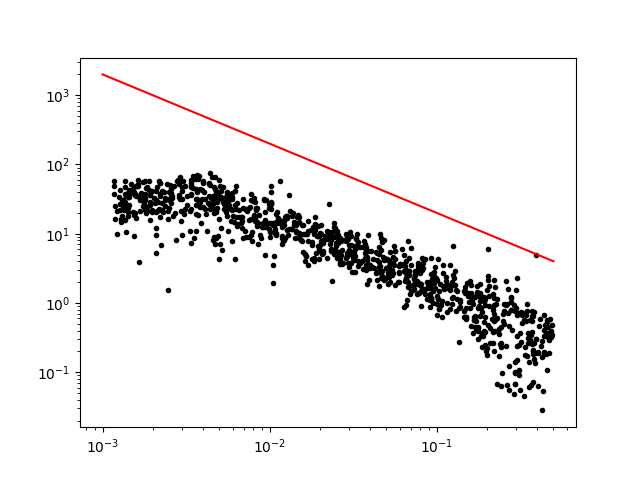
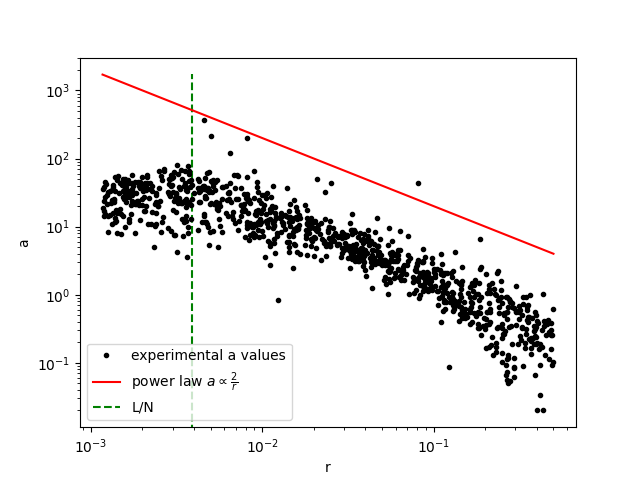
commented my code for ex2, reformatted figures

diff --git a/sheet6/code_anja/exercise2.py b/sheet6/code_anja/exercise2.py
@@ -20,49 +20,52 @@ def ex2():
     # a)
 
     grid = Density_map(L/2,N)
-    x, y = np.random.uniform(low=-grid.H + grid.h, high = grid.H - grid.h, size=2)
+    x, y = np.random.uniform(low=-grid.H + grid.h, high = grid.H - grid.h, size=2) # particle inside one cell length, aka not in a boundary cell
     X = np.array((x,y))
 
-    print(X)
+    print(f'particle at cartesian position: X = {X}')
 
     grid.add_particle(X)
 
-    rho_real = grid.rho1
+    rho_real = grid.rho1 # denisty mesh as implemented in last weeks exercise
     
 
     # b)
 
     #kx = 2*np.pi/L*np.arange(-N/2,N/2,1) # !! N must be even for this to work
-    kx = 2*np.pi/L*np.arange(0,N,1)
-    ky = np.flip(kx)
-    #k = np.vstack((kx,ky))
+    kx = 2*np.pi/L*np.arange(0,N,1) # which one is correct? both should work equally? but the symmetric one gives weird chess board patterns in force?
+    ky = np.flip(kx) # bc array and physical directions in y opposite
     #print(kx)
     
-    greens_kspace = np.zeros((len(kx),len(ky)))
+    greens_kspace = np.zeros((len(kx),len(ky))) # set up greens function at each cell position
     for i in range(len(kx)):
         for j in range(len(ky)):
             k = np.array((kx[i],ky[j]))
-            greens_kspace[j,i] = greens_func_kspace(k) 
+            greens_kspace[j,i] = greens_func_kspace(k) # x and y indices switched!!
 
     #print(greens_kspace)
-    greens_kspace_padded = np.zeros((2*N,2*N))
-    greens_kspace_padded[0:N,0:N] = greens_kspace_padded[0:N,N:2*N] = greens_kspace_padded[N:2*N,0:N] = greens_kspace_padded[N:2*N,N:2*N] = greens_kspace
+    greens_kspace_padded = np.zeros((2*N,2*N)) # zero padding to prevent from feeling force from neighbouring periodicly continued cell
+    greens_kspace_padded[0:N,0:N] = greens_kspace_padded[0:N,N:2*N] = greens_kspace_padded[N:2*N,0:N] = greens_kspace_padded[N:2*N,N:2*N] = greens_kspace # greens should satisfy periodicity in each quarter
 
-    #greens_kspace_padded = np.fft.fftshift(greens_kspace_padded)
+    #greens_kspace_padded = np.fft.fftshift(greens_kspace_padded) # necessary or not?
     rho_real_padded = np.zeros((2*N,2*N))
     rho_real_padded[0:N,0:N] = rho_real # rho lives in lower left corner
-    rho_kspace_padded = np.fft.fft2(rho_real_padded)
+    rho_kspace_padded = np.fft.fft2(rho_real_padded) # DFT of zero padded rho
     
-    phi_kspace_padded = rho_kspace_padded*greens_kspace_padded
+    phi_kspace_padded = rho_kspace_padded*greens_kspace_padded 
 
-    phi_real_padded = np.fft.ifft2(phi_kspace_padded).real
+    phi_real_padded = np.fft.ifft2(phi_kspace_padded).real # should yield right result in lower left corner for phi, discard other quarters
     #print(phi_real_padded)
-    grid.show_density_map(grid.rho1)
-    phi_real = phi_real_padded[0:N,0:N]
+
+    #grid.show_density_map(grid.rho1)
+
+    phi_real = phi_real_padded[0:N,0:N] # lower left corner
     #print(phi_real)
 
+
     # c)
-   
+
+    # calculate force in each cell   
     A = np.zeros((2,N,N))
     for i in range(1,N-1):
         # central difference in x direc
@@ -79,13 +82,15 @@ def ex2():
     A[1,-1,:] = -(phi_real[-2,:]-phi_real[-1,:])/grid.h
 
     #print(A)
-
+    # visualize A mesh x and y components
     fig0 = plt.figure()
     Z0 = plt.imshow(A[0])
     fig0.colorbar(Z0)
+    plt.title('$A_x$')
     fig1 = plt.figure()
     Z1 = plt.imshow(A[1]) 
-    fig1.colorbar(Z1)   
+    fig1.colorbar(Z1)
+    plt.title('$A_y$')   
     plt.show()
 
 
@@ -94,19 +99,19 @@ def ex2():
     rmax = L/2
     rmin = 0.3*L/N
     rrel = rmax/rmin
-
-    positions = []
-    dists = []
+    # set up 100 randomly positioned evaluation points in given region around particle from a)
+    positions = [] # stores positions
+    dists = [] # stores absolute distance from particle
     for i in range(100):
         p, q = np.random.uniform(0,1,size=2)
         dx = rmin*rrel**p*np.cos(2*np.pi*q)
         dy = rmin*rrel**p*np.sin(2*np.pi*q)
         r = np.sqrt(dx**2 + dy**2)
-        if -L/2+grid.h <= X[0] + dx < L/2-grid.h: 
+        if -L/2+grid.h <= X[0] + dx <= L/2-grid.h: # for that we can use our method to setup W matrix for the positions, make sure that it's inside at least one cell length from boundary
             x = X[0] + dx
         else:
             x = X[0] - dx
-        if -L/2+grid.h <= X[1] + dy < L/2-grid.h:
+        if -L/2+grid.h <= X[1] + dy <= L/2-grid.h:
             y = X[1] + dy
         else:
             y = X[1] - dy
@@ -115,6 +120,8 @@ def ex2():
         positions.append(pos)
 
     positions = np.array(positions)
+
+    # shows positions relative to particle
     fig = plt.figure()
     plt.plot(positions[:,0],positions[:,1],'bo')
     plt.plot(X[0],X[1],'xr')
@@ -122,7 +129,7 @@ def ex2():
     plt.ylim(-0.5,0.5)
     plt.show()
 
-    # intepolate force by CIC
+    # intepolate force by CIC --> for every positions, force contributions from neighbouring cells by assignement function
     accs = []
     for i in range(100):
         grid_temporary = Density_map(L/2,N)
@@ -139,36 +146,48 @@ def ex2():
     accs = np.array(accs)
     #print(np.shape(dists))
     #print(np.shape(accs))
-    abs_accs = np.linalg.norm(accs, axis=-1)
+    abs_accs = np.linalg.norm(accs, axis=-1) # (a_x^2 + a_y^2)^1/2 for each position 
+    
+    # plot absolute a as function of distance r from particle / comment out for e) when running 10 cycles
+    #fig = plt.figure()
+    #plt.plot(dists,abs_accs,'k.',label='experimental a values')
+    #xx = np.linspace(0.3*L/N,0.5,1000)
+    #plt.plot(xx,2/xx,'r-',label=r'power law $a \propto \frac{2}{r}$') # power law a \propto 2/r
+    #plt.xscale('log')
+    #plt.xlabel('r')
+    #plt.yscale('log')
+    #plt.ylabel('a')
+    #plt.vlines(L/N, np.min(abs_accs)-0.3,2/xx[0]+10.3,color='g',linestyles='--',label='L/N')
+    #plt.legend(loc='lower left')
+    #plt.show()
+
+    return dists, abs_accs 
+
+
+def ex_e():
+    dists_all = []
+    accs_abs_all = []
+    for i in range(10):
+        dists, abs_accs = ex2()
+        dists_all.append(dists)
+        accs_abs_all.append(abs_accs)
     
     fig = plt.figure()
-    plt.plot(dists,abs_accs,'k.')
-    xx = np.linspace(0.001,0.5,1000)
-    plt.plot(xx,2/xx,'r-')
+    plt.plot(dists_all[0],accs_abs_all[0],'k.',label='experimental a values')
+    plt.plot(dists_all[1:],accs_abs_all[1:],'k.')
+    xx = np.linspace(0.3*L/N,0.5,1000)
+    plt.plot(xx,2/xx,'r-', label=r'power law $a\propto \frac{2}{r} $')
     plt.xscale('log')
+    plt.xlabel('r')
     plt.yscale('log')
+    plt.ylabel('a')
+    plt.vlines(L/N, np.min(accs_abs_all)-0.3,2/xx[0]+10.3,color='g',linestyles='--',label='L/N')
+    plt.legend(loc='lower left')
     plt.show()
 
-    return dists, abs_accs
-
-dists_all = []
-accs_abs_all = []
-for i in range(10):
-    dists, abs_accs = ex2()
-    dists_all.append(dists)
-    accs_abs_all.append(abs_accs)
-    
-    fig = plt.figure()
-    plt.plot(dists_all,accs_abs_all,'k.')
-    xx = np.linspace(0.001,0.5,1000)
-    plt.plot(xx,2/xx,'r-')
-    plt.xscale('log')
-    plt.yscale('log')
-    plt.show()
-
-#if __name__ == "__main__":
-#    ex2()
-
+if __name__ == "__main__":
+    ex_e()
+    #ex2()
 
 
 
